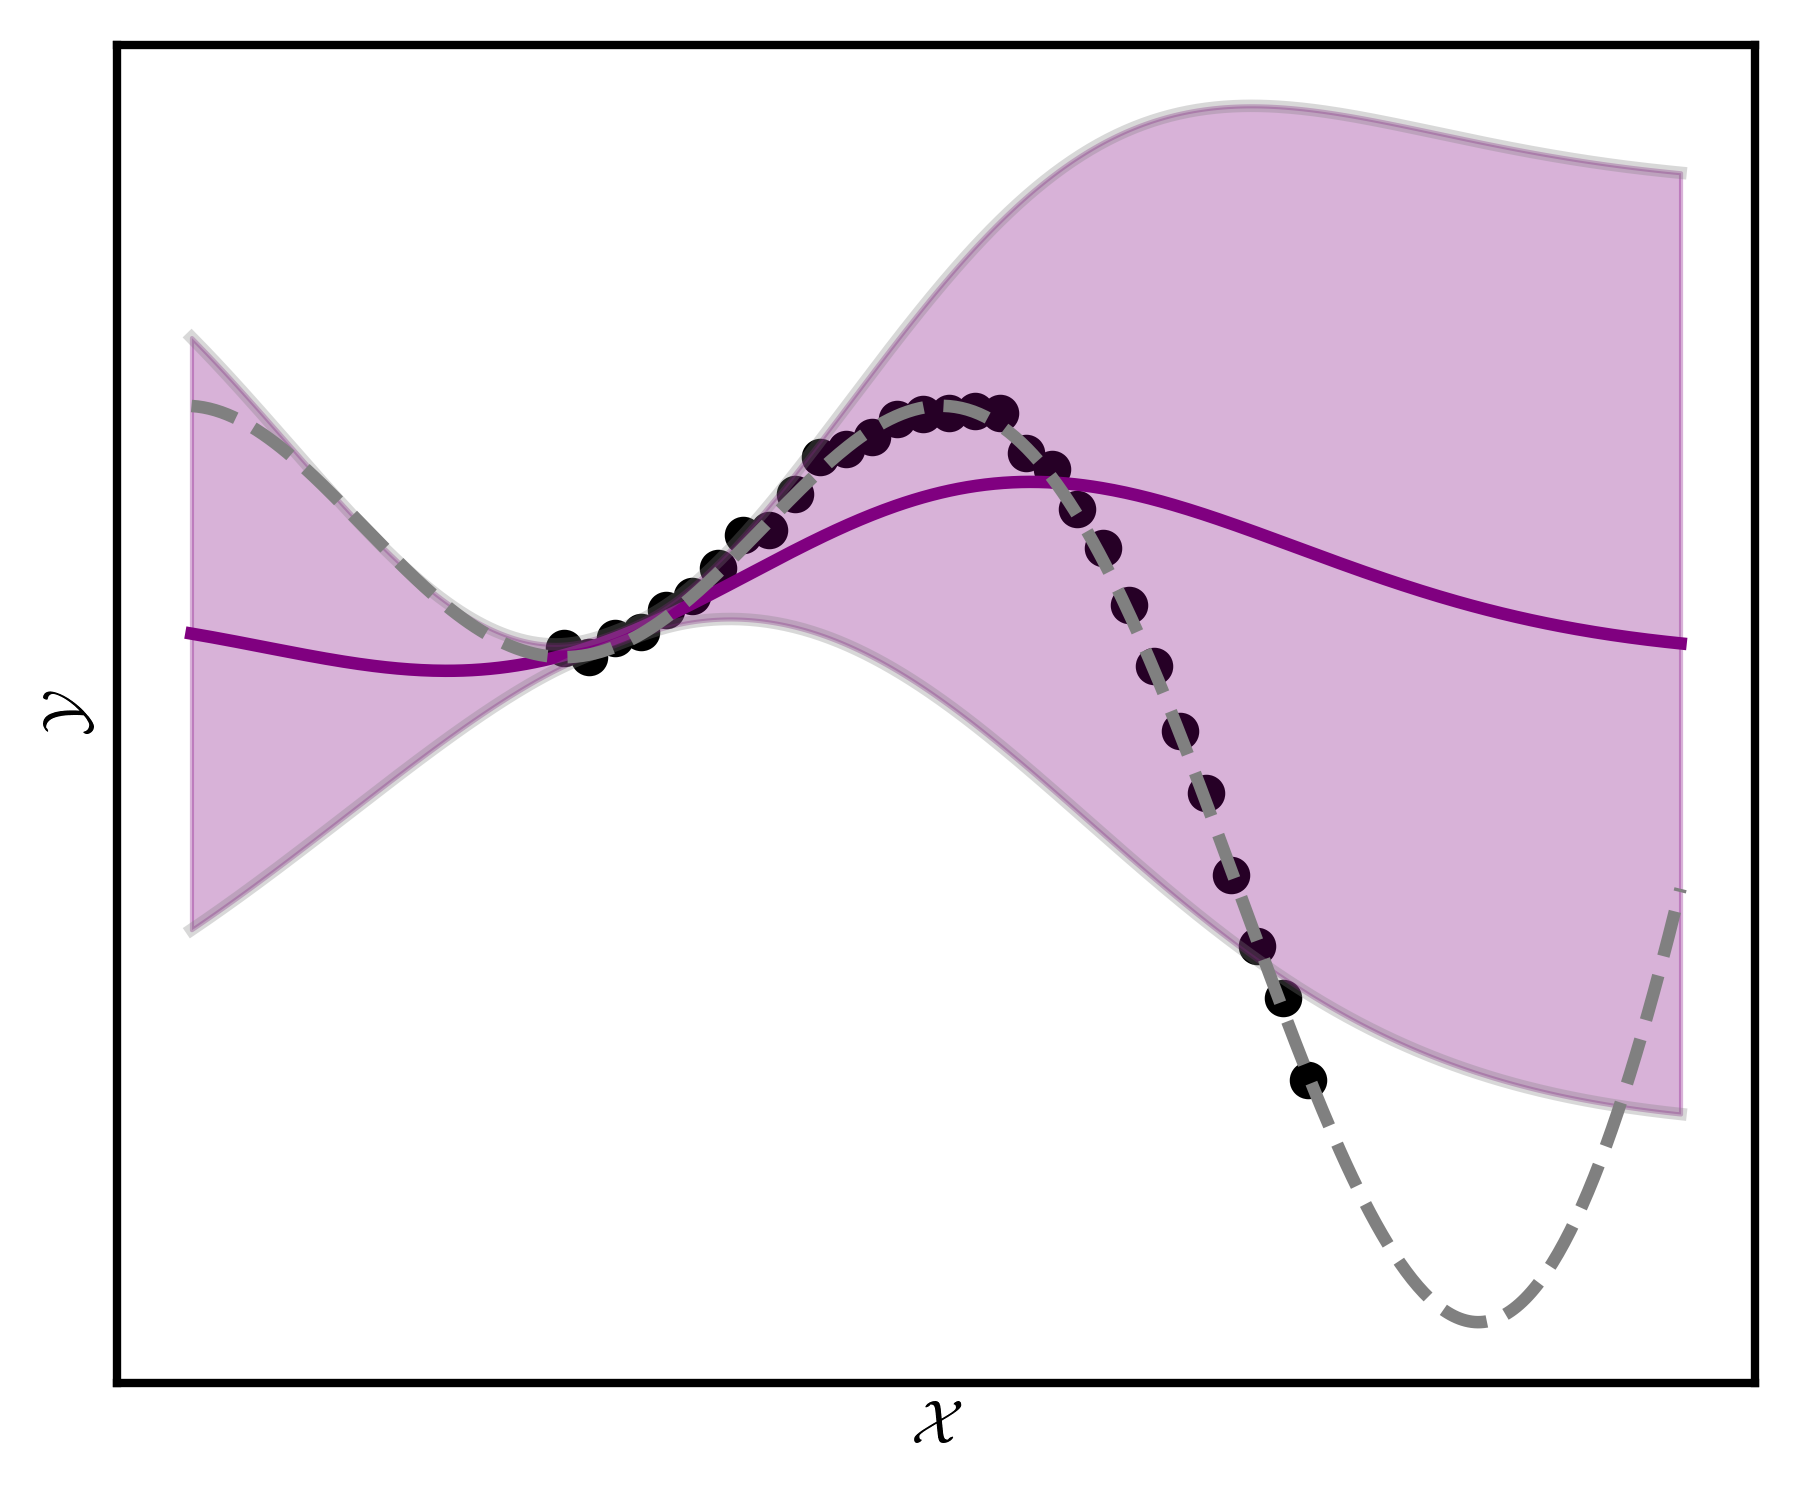
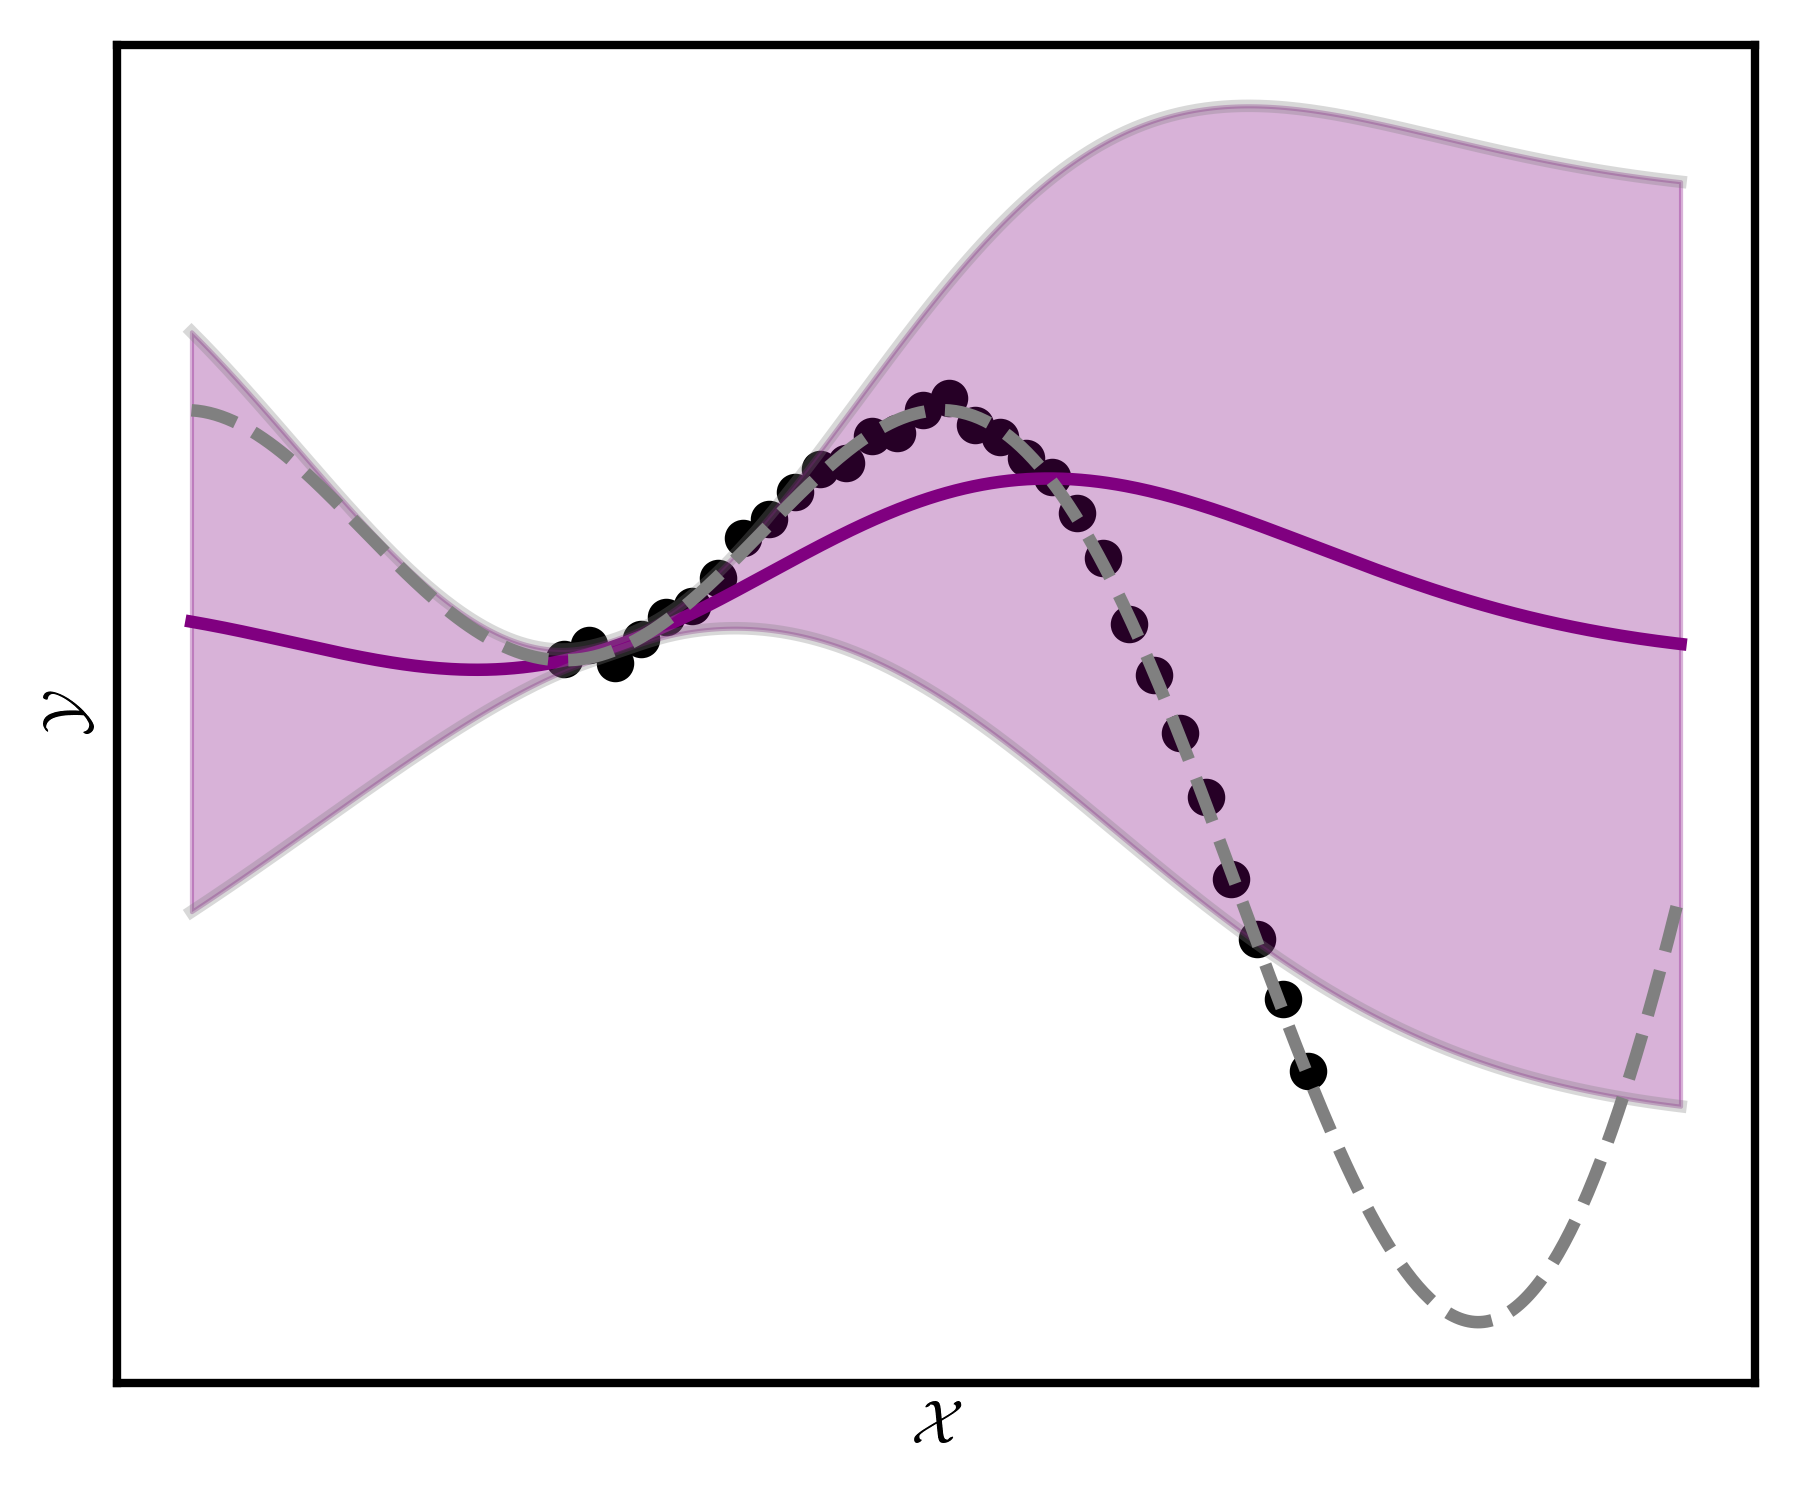
implemented random choice of indices in cholesky

diff --git a/src/linalg/decomposition/cholesky.py b/src/linalg/decomposition/cholesky.py
@@ -1,8 +1,9 @@
 import numpy as np
 from scipy.linalg import cholesky as cholesky_scipy
+import random
 
 
-def cholesky(A, p=None):
+def cholesky(A, p=None, rnd_idx=False):
     """
     Performs the Cholesky decomposition of a positive definite matrix A and
     provides an approximation to the inverse of A.
@@ -12,6 +13,8 @@ def cholesky(A, p=None):
 
     Parameters
     ----------
+    rnd_idx : boolean
+        If set to true, the indices are chosen randomly, else they are chosen in a lexicographic order.
     A : numpy.ndarray
         The matrix to be decomposed. Must be a square, symmetric, positive definite matrix.
     p : int, optional
@@ -29,7 +32,14 @@ def cholesky(A, p=None):
     ------
     ValueError
         If the matrix A is not square or not symmetric.
+
+
+    Notes
+    -----
+    The residual can be computed using  A_ = A - L @ L.T. It is defined as the current Cholesky approximation subtracted
+    from the matrix A.
     """
+
     # Ensure A is a numpy array
     A = np.array(A, dtype=float)
 
@@ -53,17 +63,21 @@ def cholesky(A, p=None):
     L = np.zeros_like(A, dtype=float)  # lower triangular Cholesky factor
     C = np.zeros_like(A, dtype=float)  # inverse approximation
 
-    # Cholesky decomposition with Inverse Approximation
-    for i in range(p):
-        e_i = np.eye(n)[:, i]                       # unit vector
+    # choice of index order (lexicographic or random)
+    indices = list(range(n))
+
+    for i in range(p):                              # Cholesky decomposition with Inverse Approximation
+        index = i                                   # lexicographic order
+        if rnd_idx:                                 # if random order was chosen
+            index = random.choice(indices)          # choose random index
+            indices.remove(index)                   # remove index from list
+        e_i = np.eye(n)[:, index]                   # unit vector
         s_i = e_i                                   # action
         d_i = (np.eye(n) - C @ A) @ s_i             # search direction
         eta_i = s_i.T @ (A @ d_i)                   # normalization constant
         l_i = (1.0 / np.sqrt(eta_i)) * (A @ d_i)    # matrix observation
         C += (1.0 / eta_i) * np.outer(d_i, d_i)     # inverse estimate
         L[:, i] = l_i                               # lower Cholesky factor
-        A_ = A - L @ L.T                            # residual
-        # print("iter {:d} res : {:.4e}".format(i, np.linalg.norm(A_, "fro")))  # print residual
 
     return L, C
 
